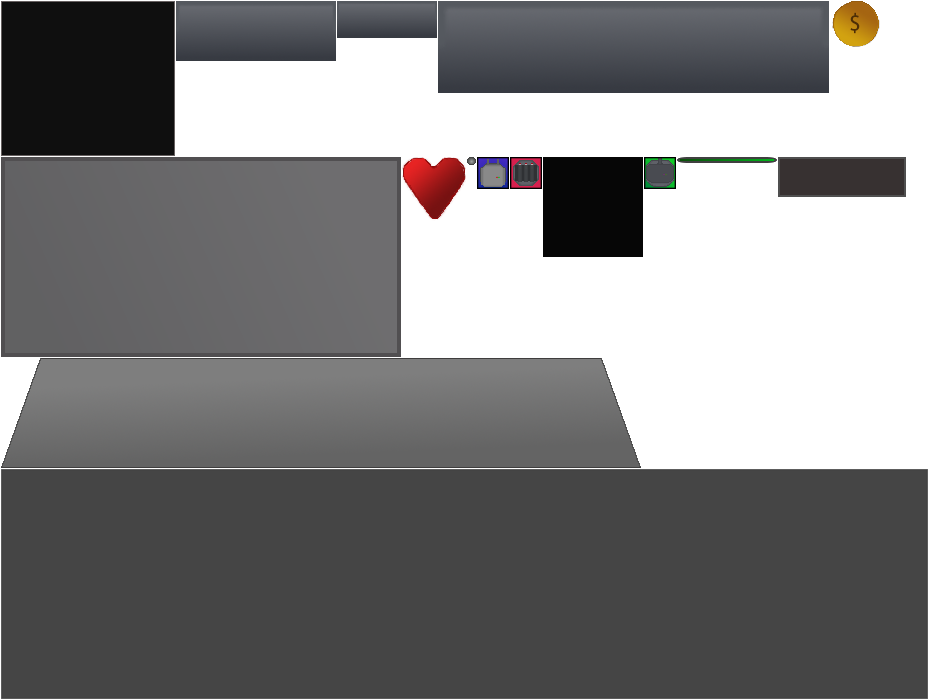
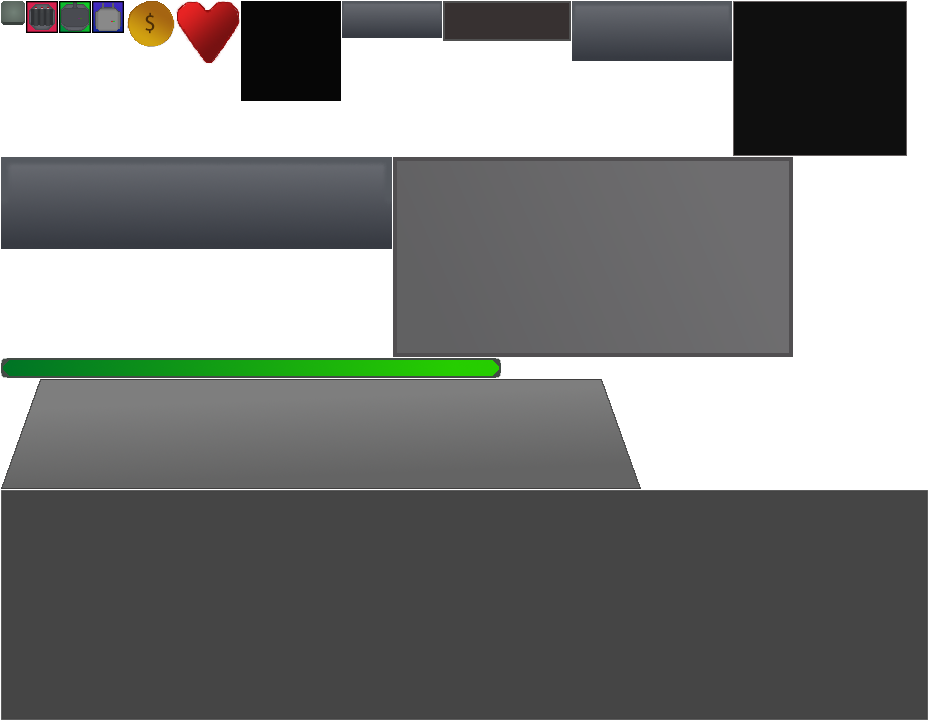
volume sliders for music and sound effects

diff --git a/core/src/com/mygdx/game/utils/Assets.java b/core/src/com/mygdx/game/utils/Assets.java
@@ -17,6 +17,7 @@ import com.badlogic.gdx.graphics.g2d.TextureAtlas;
 import com.badlogic.gdx.graphics.g2d.freetype.FreeTypeFontGenerator;
 import com.badlogic.gdx.scenes.scene2d.ui.Skin;
 import com.esotericsoftware.spine.*;
+import com.mygdx.game.Game;
 
 public class Assets {
 	public static Sprite enemyGreenHealthbarBG;
@@ -45,6 +46,7 @@ public class Assets {
     public static BitmapFont font16;
     public static BitmapFont fontVera10;
     public static BitmapFont font24;
+    public static BitmapFont fontVera24;
     public static BitmapFont font20;
     
     public static Music laserMillenium;
@@ -56,6 +58,8 @@ public class Assets {
 	public static Skin _skin;
 	public static Skin uiSkin;
 	public static Color greenColor;
+	private static Object fontVera20;
+	private static Object fontVera16;
 
     private static Texture loadTexture(String file){
         return new Texture(Gdx.files.internal(file));
@@ -66,7 +70,7 @@ public class Assets {
     	greenColor = new Color(0.1f , 0.8f , 0.1f,1f);
         // music
         laserMillenium = Gdx.audio.newMusic(Gdx.files.internal("music/Laser_Millenium.ogg"));
-        laserMillenium.setVolume(0.1f);
+        laserMillenium.setVolume(Game.VOLUME_MUSIC);
         laserMillenium.setLooping(true);
         laserMillenium.play();
         // sounds
@@ -111,8 +115,11 @@ public class Assets {
         font10 = createFont(12 , Fonts.HEMI_HEAD);
         font12 = createFont(12 , Fonts.HEMI_HEAD);
         font16 = createFont(16 , Fonts.HEMI_HEAD);
+        fontVera16 = createFont(16, Fonts.VERA_BD);
         font20 = createFont(20,Fonts.HEMI_HEAD);
+        fontVera20 = createFont(20, Fonts.VERA_BD);
         font24 = createFont(24 ,Fonts.HEMI_HEAD);
+        fontVera24 = createFont(24, Fonts.VERA_BD);
         Skin skin = new Skin();
         TextureAtlas atlas = new TextureAtlas("interface/ui/atlas-ui.txt");
         skin.addRegions(atlas);
@@ -121,8 +128,11 @@ public class Assets {
         skin.add("fontVera10", Assets.fontVera10);
         skin.add("font12", Assets.font12);
         skin.add("default-font", Assets.font16);
+        skin.add("fontVera16", Assets.fontVera16);
         skin.add("font20", Assets.font20);
+        skin.add("fontVera20", Assets.fontVera20);
         skin.add("font24", Assets.font24);
+        skin.add("fontVera24", Assets.fontVera24);
         
         skin.load(Gdx.files.internal("interface/ui/uiSkin.json"));
         _skin = skin;
@@ -175,6 +185,10 @@ public class Assets {
     	VERA_BD,
     	VERA_BI,
     	VERA_IT
+    }
+    
+    public static void updateMusicVolume(){
+    	laserMillenium.setVolume(Game.VOLUME_MUSIC);
     }
 
     public static void dispose(){

diff --git a/core/src/com/mygdx/game/view/windows/PauseWindow.java b/core/src/com/mygdx/game/view/windows/PauseWindow.java
@@ -4,22 +4,46 @@ import com.badlogic.gdx.scenes.scene2d.ui.Skin;
 import com.badlogic.gdx.scenes.scene2d.ui.Table;
 import com.badlogic.gdx.scenes.scene2d.ui.TextButton;
 import com.badlogic.gdx.scenes.scene2d.ui.Window;
+import com.badlogic.gdx.utils.Align;
 import com.mygdx.game.utils.Assets;
+import com.mygdx.game.view.panels.SettingsPanel;
 
 public class PauseWindow extends Window {
 
 	private TextButton _resumeButton;
 	private TextButton _mainMenuButton;
+	private Table primaryMenu;
+	private SettingsPanel settingsPanel;
+	private TextButton _settingsButton;
+	private TextButton _okButton;
+	
 
 	public PauseWindow(String title, Skin skin) {
 		super(title, skin);
+		this.debug();
         this.setVisible(false);
-        Table root = new Table(skin);
-        _resumeButton = new TextButton("Resume",Assets._skin , "regular");
-        _mainMenuButton = new TextButton("Main Menu",Assets._skin , "regular");
-        root.add(_resumeButton).padBottom(10).row();
-        root.add(_mainMenuButton);
-        this.add(root);
+        primaryMenu = new Table(skin);
+        settingsPanel = new SettingsPanel(skin);
+        _okButton  = new TextButton("OK" , skin , "menu");
+        settingsPanel.add(_okButton);
+        _resumeButton = new TextButton("Resume",Assets._skin , "menu");
+        _mainMenuButton = new TextButton("Main Menu",Assets._skin , "menu");
+        _settingsButton = new TextButton("Settings",Assets._skin , "menu");
+        
+        primaryMenu.add(_resumeButton).padBottom(20f).row();
+        primaryMenu.add(_settingsButton).padBottom(20f).row();
+        primaryMenu.add(_mainMenuButton);
+        this.add(primaryMenu).align(Align.center).fill();
+	}
+	
+	public void showSettings(){
+		this.removeActor(primaryMenu);
+		this.add(settingsPanel);
+	}
+	
+	public void showMenu(){
+		this.removeActor(settingsPanel);
+		this.add(primaryMenu);
 	}
 
 	public TextButton getResumeButton() {
@@ -28,6 +52,19 @@ public class PauseWindow extends Window {
 
 	public TextButton getMainMenuButton() {
 		return _mainMenuButton;
+	}
+
+	public TextButton getSettingsButton() {
+		// TODO Auto-generated method stub
+		return _settingsButton;
+	}
+	
+	public SettingsPanel getSettingsPanel(){
+		return settingsPanel;
+	}
+
+	public TextButton getOkButton() {
+		return _okButton;
 	}
 
 }

diff --git a/core/src/com/mygdx/game/view/stages/SettingsStage.java b/core/src/com/mygdx/game/view/stages/SettingsStage.java
@@ -3,15 +3,14 @@ package com.mygdx.game.view.stages;
 
 import com.badlogic.gdx.Gdx;
 import com.badlogic.gdx.scenes.scene2d.Stage;
-import com.badlogic.gdx.scenes.scene2d.ui.Label;
-import com.badlogic.gdx.scenes.scene2d.ui.Slider;
-import com.badlogic.gdx.scenes.scene2d.ui.Table;
+import com.badlogic.gdx.scenes.scene2d.ui.TextButton;
 import com.mygdx.game.utils.Assets;
+import com.mygdx.game.view.panels.SettingsPanel;
 
 public class SettingsStage extends Stage {
 	
-	private Slider _musicVolSlider;
-	private Slider _soundFxSlider;
+	private SettingsPanel settingsPanel;
+	private TextButton _okButton;
 	public SettingsStage() {
 		super();
 		intiSettingsStage();
@@ -19,28 +18,27 @@ public class SettingsStage extends Stage {
 	public void intiSettingsStage(){
 		getCamera().position.set(Gdx.graphics.getWidth() / 2 , Gdx.graphics.getHeight() / 2 , 0);
 		getCamera().update();
-		_musicVolSlider = new Slider(0, 1f, 0.01f, false, Assets._skin);
-		_soundFxSlider = new Slider(0, 1f, 0.01f, false, Assets._skin);
-		Label musicLbl = new Label("Music" , Assets._skin);
-		Label sfxLbl = new Label("Sound Effects" , Assets._skin);
-		Table table = new Table(Assets._skin);
-		table.add(musicLbl).row();
-		table.add(_musicVolSlider).spaceBottom(20f).row();
-		table.add(sfxLbl).row();
-		table.add(_soundFxSlider);
-		table.setWidth(Gdx.graphics.getWidth());
-		table.setHeight(Gdx.graphics.getHeight());
-		addActor(table);
+		settingsPanel = new SettingsPanel(Assets._skin);	
+		_okButton = new TextButton("OK" , Assets._skin , "menu");
+		settingsPanel.setFillParent(true);
+		settingsPanel.add(_okButton);
+		addActor(settingsPanel);	
 	}
 	@Override
 	public void draw() {
-		this.getViewport().update(Gdx.graphics.getWidth(), Gdx.graphics.getHeight());
 		super.draw();
 	}
 	@Override
 	public void act(float delta) {
 		super.act(delta);
 	}
-	
+
+	public SettingsPanel getSettingsPanel() {
+		return settingsPanel;
+	}
+	public TextButton getOkButton() {
+		// TODO Auto-generated method stub
+		return _okButton;
+	}
 	
 }

diff --git a/core/src/com/mygdx/game/controllers/UIStageController.java b/core/src/com/mygdx/game/controllers/UIStageController.java
@@ -4,7 +4,9 @@ import com.badlogic.gdx.graphics.Color;
 import com.badlogic.gdx.scenes.scene2d.Actor;
 import com.badlogic.gdx.scenes.scene2d.InputEvent;
 import com.badlogic.gdx.scenes.scene2d.Touchable;
+import com.badlogic.gdx.scenes.scene2d.utils.ChangeListener;
 import com.badlogic.gdx.scenes.scene2d.utils.ClickListener;
+import com.mygdx.game.Game;
 import com.mygdx.game.Factory.TowerType;
 import com.mygdx.game.managers.GameStateManager;
 import com.mygdx.game.states.PlayState;
@@ -54,6 +56,39 @@ public class UIStageController  {
 				hidePauseWindow();
 			}
 		});
+		
+		uistage.getPauseWindow().getSettingsButton().addListener(new ClickListener() {
+			@Override
+			public void clicked(InputEvent event, float x, float y) {
+				uistage.getPauseWindow().showSettings();
+			}
+		});
+		
+		uistage.getPauseWindow().getSettingsPanel().getMusicVolSlider().addListener(new ChangeListener() {
+
+			@Override
+			public void changed(ChangeEvent event, Actor actor) {
+				Assets.laserMillenium.setVolume(uistage.getPauseWindow().getSettingsPanel().getMusicVolSlider().getValue());
+			}
+		
+		});
+		
+		uistage.getPauseWindow().getSettingsPanel().getSoundFxSlider().addListener(new ChangeListener() {
+
+			@Override
+			public void changed(ChangeEvent event, Actor actor) {
+				Game.VOLUME_SOUNDFX = uistage.getPauseWindow().getSettingsPanel().getSoundFxSlider().getValue();
+			}
+		
+		});
+		
+		uistage.getPauseWindow().getOkButton().addListener(new ClickListener() {
+			@Override
+			public void clicked(InputEvent event, float x, float y) {
+				uistage.getPauseWindow().showMenu();;
+			}
+		});
+		
 		/* Main menu button in pause mode */
 		uistage.getPauseWindow().getMainMenuButton().addListener(new ClickListener() {
 			@Override

diff --git a/core/src/com/mygdx/game/states/SettingsState.java b/core/src/com/mygdx/game/states/SettingsState.java
@@ -1,7 +1,13 @@
 package com.mygdx.game.states;
 
 import com.badlogic.gdx.Gdx;
+import com.badlogic.gdx.scenes.scene2d.Actor;
+import com.badlogic.gdx.scenes.scene2d.InputEvent;
+import com.badlogic.gdx.scenes.scene2d.utils.ChangeListener;
+import com.badlogic.gdx.scenes.scene2d.utils.ClickListener;
+import com.mygdx.game.Game;
 import com.mygdx.game.managers.GameStateManager;
+import com.mygdx.game.managers.GameStateManager.State;
 import com.mygdx.game.view.stages.SettingsStage;
 
 public class SettingsState extends GameState {
@@ -10,12 +16,34 @@ public class SettingsState extends GameState {
 		super(gsm);
 		settingsStage = new SettingsStage();
 		Gdx.input.setInputProcessor(settingsStage);
+		settingsStage.getSettingsPanel().getMusicVolSlider().addListener(new ChangeListener(){
+			@Override
+			public void changed(ChangeEvent event, Actor actor) {
+				Game.VOLUME_MUSIC = settingsStage.getSettingsPanel().getMusicVolSlider().getValue();
+			}
+			
+		});
+		
+		settingsStage.getSettingsPanel().getSoundFxSlider().addListener(new ChangeListener(){
+			@Override
+			public void changed(ChangeEvent event, Actor actor) {
+				Game.VOLUME_SOUNDFX = settingsStage.getSettingsPanel().getSoundFxSlider().getValue();
+			}
+			
+		});
+		
+		settingsStage.getOkButton().addListener(new ClickListener(){
+			@Override
+			public void clicked(InputEvent event, float x, float y) {
+				super.clicked(event, x, y);
+				gsm.setState(State.MAINMENU);
+			}
+		});
 	}
 
 	@Override
 	public void resize(int w, int h) {
-		settingsStage.getViewport().update(w, h);
-		
+		settingsStage.getViewport().update(w, h);	
 	}
 
 	@Override

diff --git a/core/src/com/mygdx/game/view/panels/SettingsPanel.java b/core/src/com/mygdx/game/view/panels/SettingsPanel.java
@@ -1,0 +1,38 @@
+package com.mygdx.game.view.panels;
+
+import com.badlogic.gdx.scenes.scene2d.ui.Label;
+import com.badlogic.gdx.scenes.scene2d.ui.Skin;
+import com.badlogic.gdx.scenes.scene2d.ui.Slider;
+import com.badlogic.gdx.scenes.scene2d.ui.Table;
+import com.badlogic.gdx.utils.Align;
+import com.mygdx.game.Game;
+import com.mygdx.game.utils.Assets;
+
+public class SettingsPanel extends Table {
+	
+	private Slider _musicVolSlider;
+	private Slider _soundFxSlider;
+
+	public SettingsPanel(Skin skin) {
+		super(skin);
+		_musicVolSlider = new Slider(0, 1f, 0.01f, false, Assets._skin);
+		_soundFxSlider = new Slider(0, 1f, 0.01f, false, Assets._skin);
+		_musicVolSlider.setValue(Game.VOLUME_MUSIC);
+		_soundFxSlider.setValue(Game.VOLUME_SOUNDFX);
+		Label musicLbl = new Label("Music" , Assets._skin , "fontVera20" , "white");
+		Label sfxLbl = new Label("Sound Effects" , Assets._skin , "fontVera20" , "white");
+		this.add(musicLbl).align(Align.left).row();
+		this.add(_musicVolSlider).spaceBottom(20f).row();
+		this.add(sfxLbl).align(Align.left).row();
+		this.add(_soundFxSlider).spaceBottom(20).row();
+	}
+	
+	public Slider getMusicVolSlider() {
+		return _musicVolSlider;
+	}
+
+	public Slider getSoundFxSlider() {
+		return _soundFxSlider;
+	}
+
+}

diff --git a/core/src/com/mygdx/game/view/stages/MainMenuStage.java b/core/src/com/mygdx/game/view/stages/MainMenuStage.java
@@ -22,10 +22,10 @@ public class MainMenuStage extends Stage {
 
 	private void initMainMenu(final GameStateManager gsm) {
 		Table table = new Table();
-		final Label title = new Label(Game.TITLE , Assets._skin , "font24" , "green");
-		final TextButton button = new TextButton("New Game", Assets._skin, "regular");
-		final TextButton settingsBtn = new TextButton("Settings", Assets._skin, "regular");
-		final TextButton exitButton = new TextButton("Quit Game", Assets._skin, "regular");
+		final Label title = new Label(Game.TITLE , Assets._skin , "fontVera24" , "green");
+		final TextButton button = new TextButton("New Game", Assets._skin, "menu");
+		final TextButton settingsBtn = new TextButton("Settings", Assets._skin, "menu");
+		final TextButton exitButton = new TextButton("Quit Game", Assets._skin, "menu");
 		button.addListener(new ClickListener() {
 
 			@Override

diff --git a/core/src/com/mygdx/game/Factory/EntityFactory.java b/core/src/com/mygdx/game/Factory/EntityFactory.java
@@ -5,6 +5,7 @@ import java.util.ArrayList;
 import com.badlogic.ashley.core.Engine;
 import com.badlogic.ashley.core.Entity;
 import com.badlogic.gdx.math.Vector2;
+import com.mygdx.game.Game;
 import com.mygdx.game.entites.entitiycomponents.AngleComponent;
 import com.mygdx.game.entites.entitiycomponents.DirectionComponent;
 import com.mygdx.game.entites.entitiycomponents.FlyingComponent;
@@ -98,7 +99,7 @@ public class EntityFactory {
 		if (information.isSplash())
 			entity.add(new SplashComponent(information.getSplashRadius()));
 		information.getSoundEffect().stop();
-		information.getSoundEffect().play(0.01f);
+		information.getSoundEffect().play(Game.VOLUME_SOUNDFX);
 		_engine.addEntity(entity);
 	}
 

diff --git a/core/src/com/mygdx/game/Game.java b/core/src/com/mygdx/game/Game.java
@@ -11,8 +11,8 @@ import com.mygdx.game.utils.Assets;
 public class Game extends ApplicationAdapter {
 	public static final String TITLE = "Mars Tower Defense";
 	SpriteBatch batch;
-	public static float VOLUME_MUSIC = .5f;
-	public static float VOLUME_SOUNDFX = .5f;
+	public static float VOLUME_MUSIC = .1f;
+	public static float VOLUME_SOUNDFX = .1f;
 	public static boolean isMuted;
 	public static boolean isFullscreen;
 	private GameStateManager gsm;

diff --git a/core/src/com/mygdx/game/states/MainMenuState.java b/core/src/com/mygdx/game/states/MainMenuState.java
@@ -17,7 +17,7 @@ public class MainMenuState extends GameState {
 
 	@Override
 	public void resize(int w, int h) {
-
+		_stage.getViewport().update(w, h);
 	}
 
 	@Override
